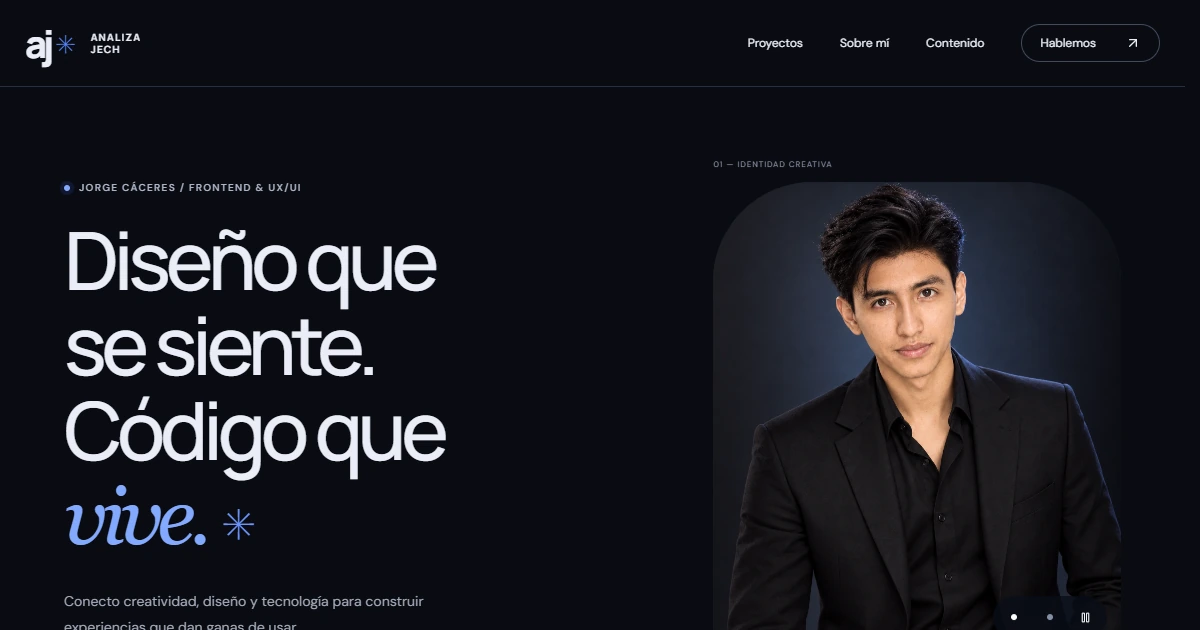
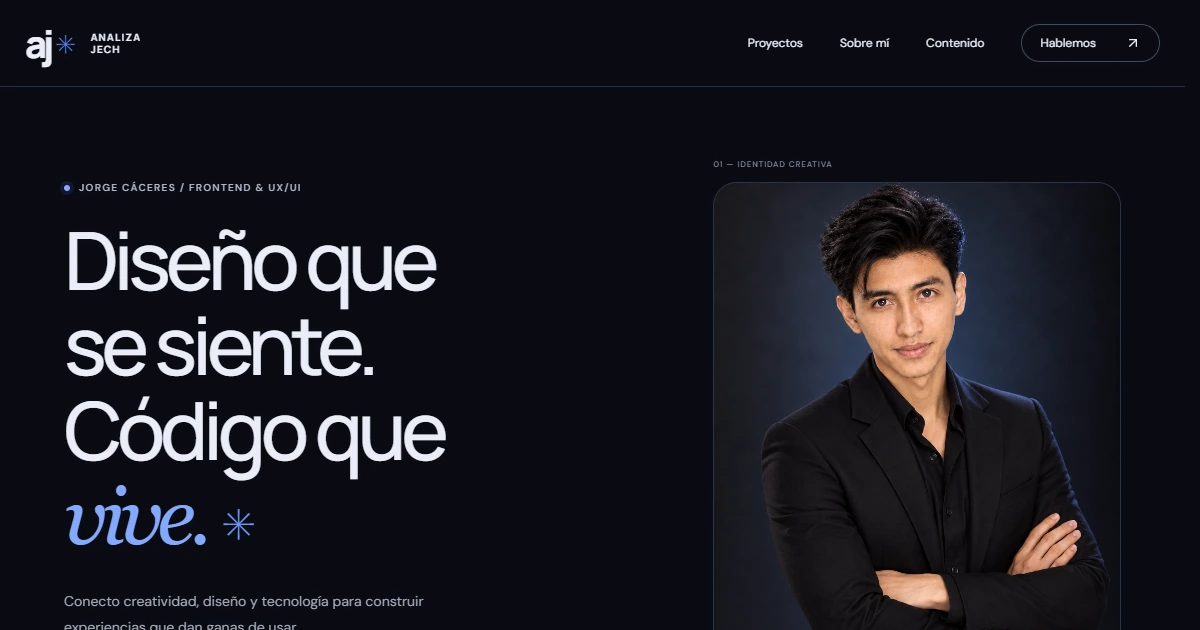
Simplify automatic portraits and refine full-screen mobile navigation

diff --git a/src/App.tsx b/src/App.tsx
@@ -5,6 +5,7 @@ import useSectionNavigation from "./components/useSectionNavigation";
 import {
   ArrowUpRight,
   ArrowDown,
+  Download,
   ArrowUp,
   ChevronLeft,
   ChevronRight,
@@ -46,6 +47,44 @@ export default function App() {
     document.addEventListener("keydown", escape);
     return () => document.removeEventListener("keydown", escape);
   }, []);
+  useEffect(() => {
+    if (!menu) return;
+    const previous = document.body.style.overflow;
+    document.body.style.overflow = "hidden";
+    const content = document.querySelector("main");
+    const footer = document.querySelector("footer");
+    content?.setAttribute("inert", "");
+    footer?.setAttribute("inert", "");
+    const header = document.querySelector<HTMLElement>(".site-header");
+    const trap = (event: KeyboardEvent) => {
+      if (event.key !== "Tab") return;
+      const nodes = [
+        ...(header?.querySelectorAll<HTMLElement>("a, button") ?? []),
+      ];
+      const first = nodes[0],
+        last = nodes[nodes.length - 1];
+      if (event.shiftKey && document.activeElement === first) {
+        event.preventDefault();
+        last?.focus();
+      }
+      if (!event.shiftKey && document.activeElement === last) {
+        event.preventDefault();
+        first?.focus();
+      }
+    };
+    const resize = () => {
+      if (window.innerWidth > 800) setMenu(false);
+    };
+    document.addEventListener("keydown", trap);
+    window.addEventListener("resize", resize);
+    return () => {
+      document.body.style.overflow = previous;
+      content?.removeAttribute("inert");
+      footer?.removeAttribute("inert");
+      document.removeEventListener("keydown", trap);
+      window.removeEventListener("resize", resize);
+    };
+  }, [menu]);
   return (
     <>
       <a className="skip-link" href="#main">
@@ -56,7 +95,7 @@ export default function App() {
         style={{ scaleX: progress }}
         aria-hidden="true"
       />
-      <header className="site-header">
+      <header className={`site-header${menu ? " menu-is-open" : ""}`}>
         <a href="#home" className="brand" aria-label="Analiza Jech, inicio">
           <span className="brand-mark">
             aj<span>✳</span>
@@ -136,7 +175,7 @@ export default function App() {
                 href="/documents/jorge-caceres-cv-ats.pdf"
                 download
               >
-                Descargar CV <ArrowDown size={16} />
+                Descargar CV <Download size={18} />
               </a>
             </div>
           </div>
@@ -147,6 +186,7 @@ export default function App() {
                 images={[
                   "/media/jorge-editorial-v5.webp",
                   "/media/jorge-editorial-pose-2.webp",
+                  "/media/jorge-editorial-pose-3.webp",
                 ]}
                 label="Retratos de Jorge Cáceres"
                 priority
@@ -397,6 +437,7 @@ export default function App() {
                     images={[
                       "/media/jorge-creative-v5.webp",
                       "/media/jorge-creative-pose-2.webp",
+                      "/media/jorge-creative-pose-3.webp",
                     ]}
                     label="Jorge en su lado creativo"
                   />

diff --git a/src/styles.css b/src/styles.css
@@ -4,7 +4,7 @@
   color: #e9edf7;
   background: #0a0c12;
   font-synthesis: none;
-  --blue: #3468ff;
+  --blue: #5485ff;
   --muted: #979eaf;
   --line: #252a37;
   --surface: #11151f;
@@ -1866,37 +1866,6 @@ html {
 .portrait-rotator img.is-active {
   opacity: 1;
 }
-.portrait-controls {
-  position: absolute;
-  z-index: 3;
-  bottom: 14px;
-  right: 14px;
-  display: flex;
-  align-items: center;
-  padding: 3px;
-  border-radius: 999px;
-  background: #090d17c9;
-}
-.portrait-controls button {
-  width: 36px;
-  height: 36px;
-  display: grid;
-  place-items: center;
-  border: 0;
-  border-radius: 50%;
-  color: white;
-  background: transparent;
-  cursor: pointer;
-}
-.portrait-controls button span {
-  width: 6px;
-  height: 6px;
-  border-radius: 50%;
-  background: #8490a6;
-}
-.portrait-controls button[aria-pressed="true"] span {
-  background: #fff;
-}
 .about-art-label,
 .about-art-word {
   pointer-events: none;
@@ -1937,4 +1906,77 @@ html {
 .portrait-window .portrait-rotator img,
 .about-art .portrait-rotator img {
   animation: none;
+}
+
+/* Brand blue, uniform portrait frames and an opaque mobile navigation. */
+.button-blue {
+  background: var(--blue);
+  color: #081225;
+}
+.button-blue:hover {
+  background: #78a0ff;
+}
+.portrait-window,
+.about-art {
+  border-radius: 24px;
+  border: 1px solid #28344a;
+}
+.portrait-rotator img {
+  transition: opacity 550ms ease;
+}
+.select-trigger,
+.select-trigger[data-state="open"],
+.select-content,
+.select-item,
+.select-item * {
+  cursor: pointer;
+}
+@media (max-width: 800px) {
+  .site-header {
+    background: #0a0c12;
+    backdrop-filter: none;
+  }
+  .site-header.menu-is-open .brand,
+  .site-header.menu-is-open .menu-button {
+    position: relative;
+    z-index: 2;
+  }
+  .site-header nav.open {
+    position: fixed;
+    inset: 0;
+    width: 100%;
+    height: 100dvh;
+    background: #0a0c12;
+    backdrop-filter: none;
+    padding: 120px 28px max(36px, env(safe-area-inset-bottom));
+    border: 0;
+    gap: 26px;
+    justify-content: center;
+    z-index: 1;
+    overflow-y: auto;
+  }
+  .site-header nav.open a {
+    font-size: clamp(28px, 6vw, 46px);
+    line-height: 1.3;
+    padding-block: 8px;
+  }
+  .site-header nav.open .nav-cta {
+    margin-top: 15px;
+    border-radius: 999px;
+    padding: 18px 24px;
+    font-size: 24px;
+  }
+  .site-header nav.open .nav-cta svg {
+    width: 24px;
+    height: 24px;
+  }
+  .portrait-window,
+  .about-art {
+    border-radius: 20px;
+  }
+}
+@media (prefers-reduced-motion: reduce) {
+  .portrait-rotator img {
+    transition: none;
+  }
 }

diff --git a/src/components/PortraitRotator.tsx b/src/components/PortraitRotator.tsx
@@ -1,6 +1,5 @@
 import { useEffect, useRef, useState } from "react";
 import { useReducedMotion } from "motion/react";
-import { Pause, Play } from "lucide-react";
 
 export default function PortraitRotator({
   images,
@@ -13,8 +12,6 @@ export default function PortraitRotator({
 }) {
   const root = useRef<HTMLDivElement>(null);
   const [active, setActive] = useState(0);
-  const [paused, setPaused] = useState(false);
-  const [interacting, setInteracting] = useState(false);
   const [visible, setVisible] = useState(false);
   const reduced = useReducedMotion();
   useEffect(() => {
@@ -26,25 +23,18 @@ export default function PortraitRotator({
     return () => observer.disconnect();
   }, []);
   useEffect(() => {
-    if (paused || interacting || reduced || !visible) return;
+    if (reduced || !visible) return;
     const timer = window.setInterval(() => {
       if (!document.hidden) setActive((value) => (value + 1) % images.length);
-    }, 6500);
+    }, 2800);
     return () => window.clearInterval(timer);
-  }, [paused, interacting, reduced, visible, images.length]);
+  }, [reduced, visible, images.length]);
   return (
     <div
       ref={root}
       className="portrait-rotator"
       role="group"
       aria-label={label}
-      onMouseEnter={() => setInteracting(true)}
-      onMouseLeave={() => setInteracting(false)}
-      onFocus={() => setInteracting(true)}
-      onBlur={(event) => {
-        if (!event.currentTarget.contains(event.relatedTarget))
-          setInteracting(false);
-      }}
     >
       {images.map((src, index) => (
         <img
@@ -57,28 +47,6 @@ export default function PortraitRotator({
           loading={priority ? "eager" : "lazy"}
         />
       ))}
-      <div className="portrait-controls">
-        {images.map((_, index) => (
-          <button
-            key={index}
-            type="button"
-            aria-label={`Ver pose ${index + 1}`}
-            aria-pressed={active === index}
-            onClick={() => setActive(index)}
-          >
-            <span />
-          </button>
-        ))}
-        {!reduced && (
-          <button
-            type="button"
-            aria-label={paused ? "Reanudar retratos" : "Pausar retratos"}
-            onClick={() => setPaused((value) => !value)}
-          >
-            {paused ? <Play size={13} /> : <Pause size={13} />}
-          </button>
-        )}
-      </div>
     </div>
   );
 }

diff --git a/docs/image-prompts.md b/docs/image-prompts.md
@@ -34,3 +34,6 @@ Image Gen integrada. Editar los últimos retratos proporcionados por Jorge como 
 
 ## Rotación de poses
 Image Gen integrada. Referencias: retratos versión 5. Preservar rostro, peinado estructurado y traje/camisa negros sin corbata. Retrato vertical con brazos cruzados y sonrisa sutil; horizontal sentado en banco carbón, manos descansando naturalmente y persona a la derecha. Fotografía nítida de estudio, sin texto ni marcas. Archivos: public/media/jorge-editorial-pose-2.webp y public/media/jorge-creative-pose-2.webp.
+
+## Terceras poses
+Image Gen integrada con retratos versión 5 como identidad. Misma persona, peinado estructurado y traje/camisa negros sin corbata. Vertical con una mano ajustando la solapa y sonrisa cálida; horizontal con brazos cruzados y persona a la derecha. Fondo carbón, fotografía realista, sin texto ni marcas. Archivos: public/media/jorge-editorial-pose-3.webp y public/media/jorge-creative-pose-3.webp.
